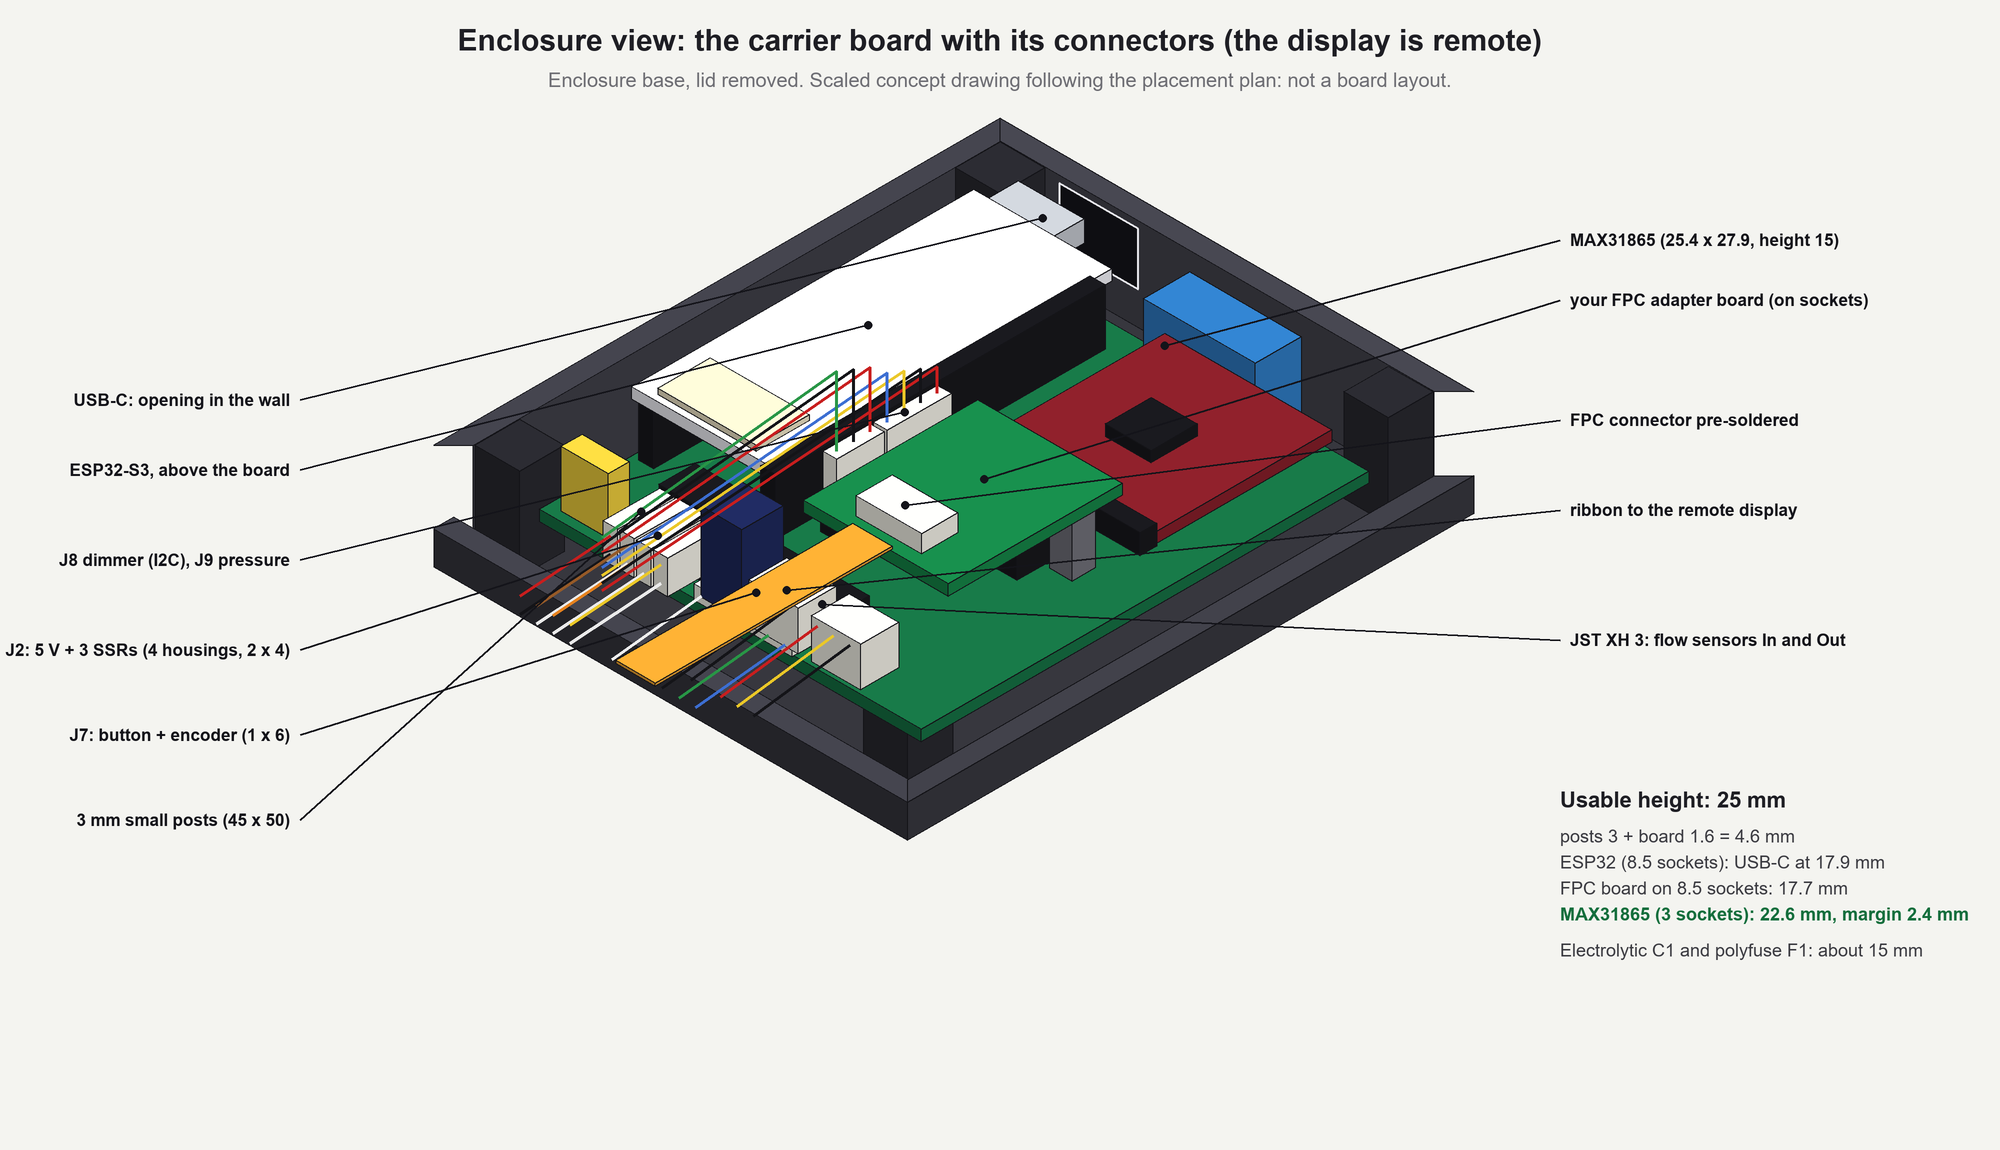
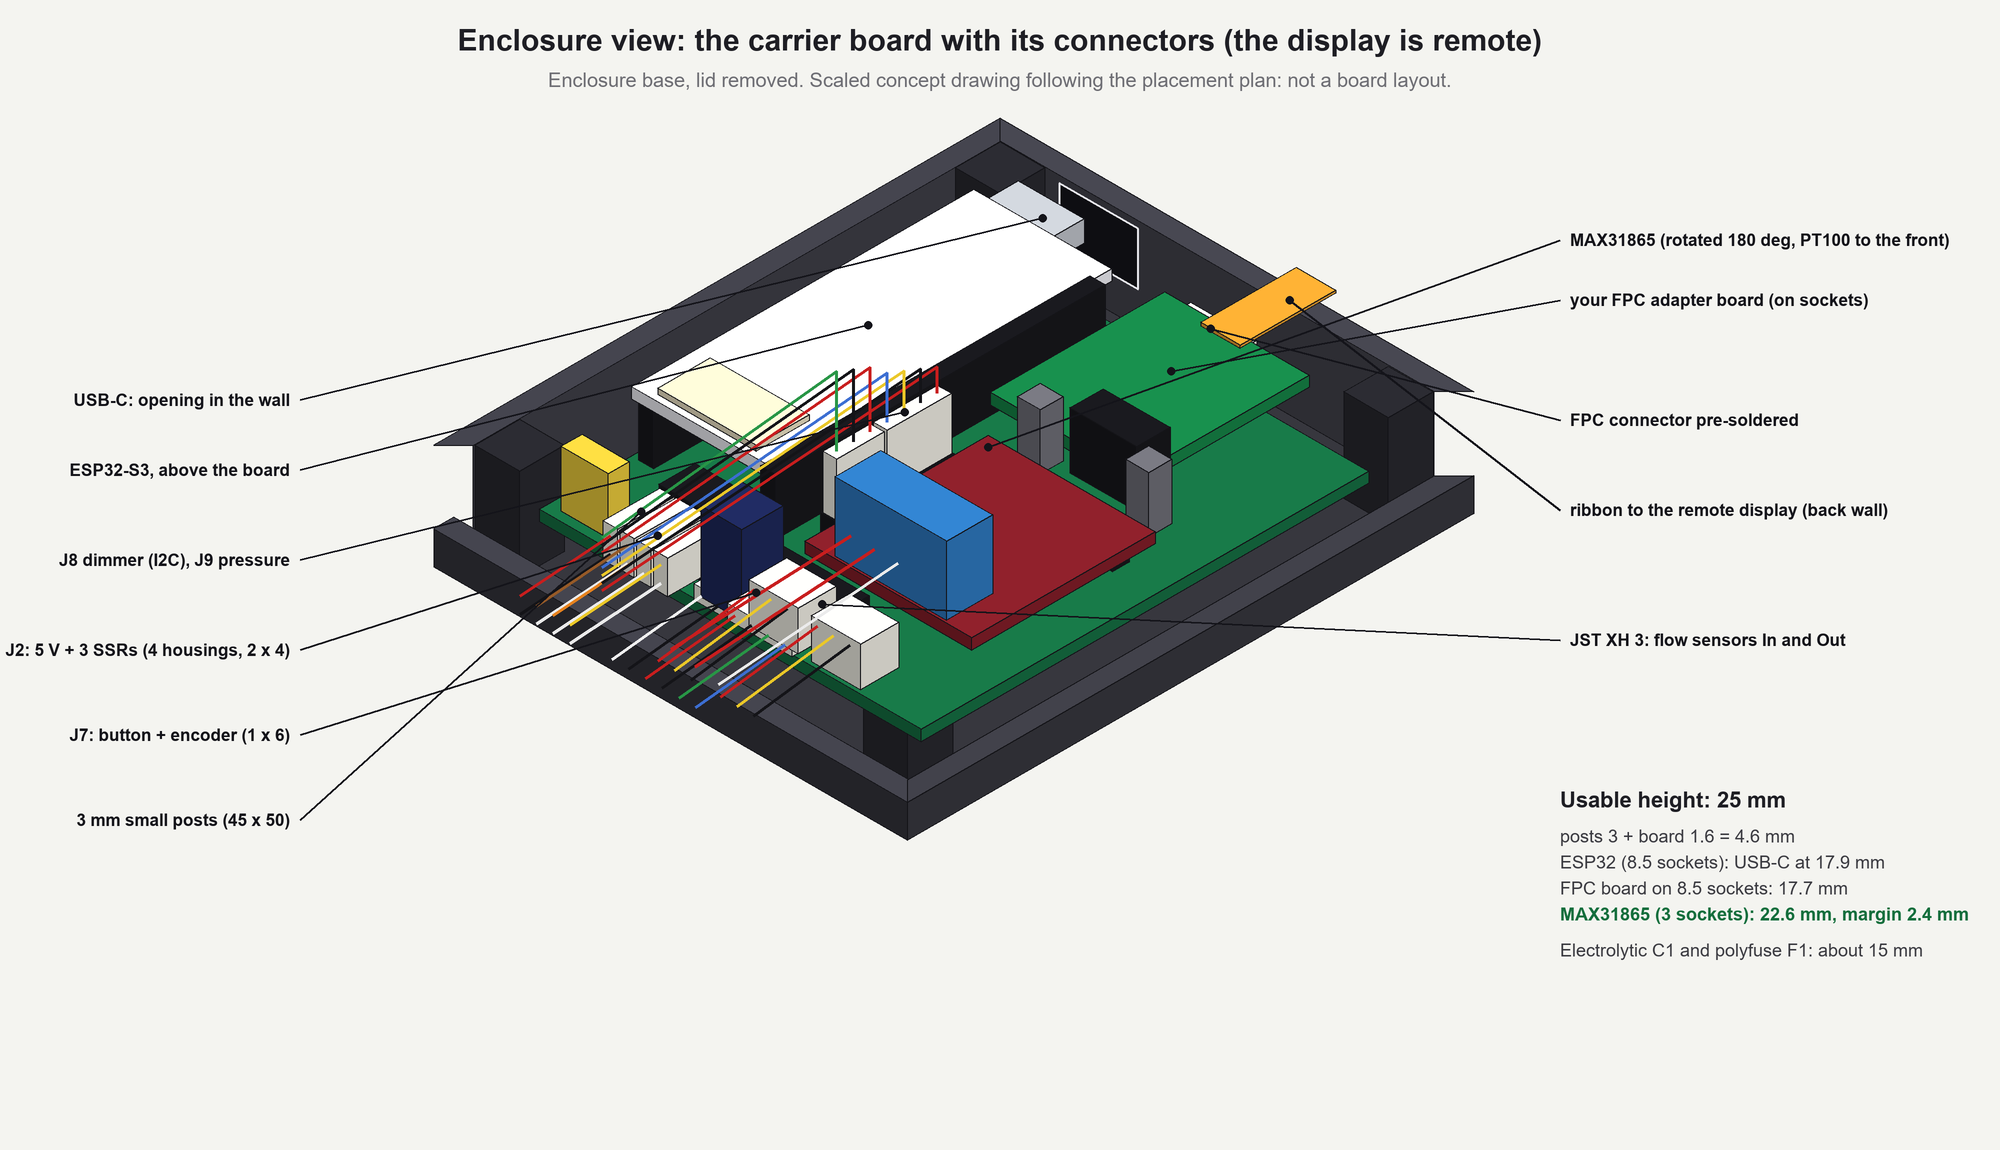
Rotate MAX31865 by 180 degrees and swap it with the FPC board: all cables leave through the front

diff --git a/tools/carrier_plan.py b/tools/carrier_plan.py
@@ -120,32 +120,33 @@ for k in range(0, 14):
     line(d, [(X(3.6), Y(49 + k)), (X(19.4), Y(49 + k - 6))], (170, 30, 30, 160), 1)
 rect(d, X(3.6), Y(49.0), X(19.4), Y(55), outline=(210, 50, 50, 255), width=2)
 
-# ---------------------------------------------------------------- U2: MAX31865 module socket (1x8) along the left edge of the module
+# ---------------------------------------------------------------- U2: MAX31865 module socket (1x8), module rotated 180 degrees:
+# header on the rear edge of the module (pin 1 VIN on the right), PT100 terminal block facing the front
 for i in range(8):
-    tpad(32.8 + i * 2.54, 27.1, square=(i == 0), ring=1.7, drill=1.0)
-rect(d, X(32.8) - 1.27 * K, Y(27.1) - 1.27 * K, X(32.8 + 7 * 2.54) + 1.27 * K, Y(27.1) + 1.27 * K, outline=(20, 20, 24, 255), width=2)
-silk(41.7, 25.0, "U2  MAX31865 (1x8)", 11)
+    tpad(32.8 + i * 2.54, 31.6, square=(i == 7), ring=1.7, drill=1.0)
+rect(d, X(32.8) - 1.27 * K, Y(31.6) - 1.27 * K, X(32.8 + 7 * 2.54) + 1.27 * K, Y(31.6) + 1.27 * K, outline=(20, 20, 24, 255), width=2)
+silk(41.7, 29.9, "U2  MAX31865 (1x8, pin 1 VIN on the right)", 10)
 
-# ---------------------------------------------------------------- J5: socket 2 x 4 for the FPC adapter
+# ---------------------------------------------------------------- J5: socket 2 x 4 for the FPC adapter (board at the top right, connector towards the back wall)
 for r_ in range(2):
     for c_ in range(4):
-        tpad(35.5 + c_ * 2.54, 36.0 + r_ * 2.54, square=(r_ == 0 and c_ == 0), ring=1.7, drill=1.0)
-rect(d, X(35.5) - 1.5 * K, Y(36.0) - 1.5 * K, X(35.5 + 3 * 2.54) + 1.5 * K, Y(38.54) + 1.5 * K, outline=SILK + (255,), width=2)
-silk(40.6, 34.4, "J5  FPC board (2 x 4)", 11)
+        tpad(35.5 + c_ * 2.54, 20.0 + r_ * 2.54, square=(r_ == 1 and c_ == 3), ring=1.7, drill=1.0)
+rect(d, X(35.5) - 1.5 * K, Y(20.0) - 1.5 * K, X(35.5 + 3 * 2.54) + 1.5 * K, Y(22.54) + 1.5 * K, outline=SILK + (255,), width=2)
+silk(41.0, 18.3, "J5  FPC board (2 x 4)", 10)
 # two M2 holes for the standoffs of the FPC adapter (positions to be taken from your board)
-for (cx, cy) in [(31.0, 33.5), (49.0, 33.5)]:
+for (cx, cy) in [(31.0, 25.4), (49.0, 25.4)]:
     hole(cx, cy, 2.2, 4.2)
-silk(40, 31.7, "2 x M2 (position to measure)", 9)
+silk(40, 25.9, "2 x M2 (to measure)", 9)
 
-# flow input conditioning under the adapter: R11..R16 + C3, C4
+# flow input conditioning under the adapter: R11..R16 (two columns of three, pitch 7.62) + C3, C4
 for i, name in enumerate(["R11", "R12", "R13", "R14", "R15", "R16"]):
-    axial(36.5, 42.5 + i * 2.7, pitch=10.16, label=None)
-    text(d, X(42.5), Y(42.5 + i * 2.7), name, 9, SILK, True, 'lm')
-for cx, name in [(48.2, "C3"), (48.2, "C4")]:
-    pass
+    cx_ = 34.3 if i < 3 else 44.9
+    cy_ = 11.6 + (i % 3) * 2.6
+    axial(cx_, cy_, pitch=7.62, label=None)
+    text(d, X(cx_ + 4.6), Y(cy_), name, 8, SILK, True, 'lm') if False else text(d, X(cx_), Y(cy_) - 1.6 * K, name, 8, SILK, True)
 for i, name in enumerate(["C3", "C4"]):
-    tpad(47.5, 43.0 + i * 3.0, ring=1.6, drill=0.8); tpad(49.5, 43.0 + i * 3.0, ring=1.6, drill=0.8)
-    text(d, X(51.0), Y(43.0 + i * 3.0), name, 9, SILK, True, 'lm')
+    tpad(52.4, 15.0 + i * 3.0, ring=1.6, drill=0.8); tpad(54.4, 15.0 + i * 3.0, ring=1.6, drill=0.8)
+    text(d, X(56.0), Y(15.0 + i * 3.0), name, 8, SILK, True, 'lm')
 
 # ---------------------------------------------------------------- front strip: J2 (2x4), J7 (1x6), polyfuse, diode, electrolytic, XH x2
 # J2: 2 x 4 right-angle header, SSR + power
@@ -200,17 +201,17 @@ rect(o, px(X(7.5)) / SS, px(Y(1.7)) / SS, px(X(15.5)) / SS, px(Y(7.0)) / SS, fil
 text(o, X(11.5), Y(10.2), "ESP32-S3   21 x 52  (at 8.5 mm)", 11, (60, 60, 70), True)
 text(o, X(11.5), Y(51.8), "antenna zone: nothing underneath", 10, (150, 30, 30), True)
 text(o, X(11.5), Y(4.5), "USB-C", 10, (60, 60, 70), True)
-# MAX31865 module 25 x 28 at x 29..54, y 2..30
-rrect(o, px(X(29.0)) / SS, px(Y(2.0)) / SS, px(X(54.4)) / SS, px(Y(29.9)) / SS, 6, fill=(20, 80, 170, 150), outline=(150, 190, 250, 255), width=3)
-rect(o, px(X(33.3)) / SS, px(Y(2.4)) / SS, px(X(50.5)) / SS, px(Y(9.5)) / SS, fill=(46, 104, 180, 220), outline=(180, 210, 250, 255), width=2)
-text(o, X(41.7), Y(14.5), "MAX31865", 15, (235, 240, 255), True)
-text(o, X(41.7), Y(17.0), "25.4 x 27.9, height 15", 11, (220, 232, 255))
-text(o, X(41.9), Y(6.0), "PT100 terminal", 10, (235, 240, 255), True)
-# FPC adapter board ~22 x 28 at x 29..51, y 32..60
-rrect(o, px(X(29.0)) / SS, px(Y(30.4)) / SS, px(X(51.0)) / SS, px(Y(56.9)) / SS, 6, fill=(22, 150, 80, 130), outline=(150, 240, 190, 255), width=3)
-rect(o, px(X(35.0)) / SS, px(Y(49.0)) / SS, px(X(45.0)) / SS, px(Y(54.5)) / SS, fill=(236, 236, 228, 230), outline=(120, 120, 110, 255), width=2)
-text(o, X(40.0), Y(51.8), "FPC connector", 10, (50, 50, 44), True)
-text(o, X(40.0), Y(47.0), "FPC board ~22 x 26 (at 8.5 mm)", 10, (230, 255, 240), True)
+# MAX31865 module 25.4 x 27.9 at x 29..54.4, y 28.8..56.7, rotated 180 degrees (terminal block at the front)
+rrect(o, px(X(29.0)) / SS, px(Y(28.8)) / SS, px(X(54.4)) / SS, px(Y(56.7)) / SS, 6, fill=(20, 80, 170, 150), outline=(150, 190, 250, 255), width=3)
+rect(o, px(X(33.3)) / SS, px(Y(49.2)) / SS, px(X(50.5)) / SS, px(Y(56.3)) / SS, fill=(46, 104, 180, 220), outline=(180, 210, 250, 255), width=2)
+text(o, X(41.7), Y(40.0), "MAX31865", 15, (235, 240, 255), True)
+text(o, X(41.7), Y(42.6), "25.4 x 27.9, height 15", 11, (220, 232, 255))
+text(o, X(41.9), Y(52.7), "PT100 terminal (wires exit to the front)", 10, (235, 240, 255), True)
+# FPC adapter board ~22 x 26.5 at x 29..51, y 2..28.5 (connector towards the back wall)
+rrect(o, px(X(29.0)) / SS, px(Y(2.0)) / SS, px(X(51.0)) / SS, px(Y(28.5)) / SS, 6, fill=(22, 150, 80, 130), outline=(150, 240, 190, 255), width=3)
+rect(o, px(X(35.0)) / SS, px(Y(2.4)) / SS, px(X(45.0)) / SS, px(Y(7.9)) / SS, fill=(236, 236, 228, 230), outline=(120, 120, 110, 255), width=2)
+text(o, X(40.0), Y(5.2), "FPC connector (ribbon to the back)", 9, (50, 50, 44), True)
+text(o, X(40.0), Y(8.6), "FPC board ~22 x 26 (at 8.5 mm)", 10, (230, 255, 240), True)
 base = Image.alpha_composite(base, ov)
 d = ImageDraw.Draw(base)
 
@@ -276,9 +277,9 @@ for i, t in enumerate(hs):
 
 text(d, lx, 1060, "Points to check on your board:", 18, (190, 40, 40), True, 'lm')
 chk = [
-    "one mounting hole (top right) passes under the MAX31865: flat-head screw,",
-    "1.5 mm high at most, under the module's 3 mm;",
-    "positions of the 2 M2 holes of the FPC board; pin order of J5, J6 and J7.",
+    "the FPC ribbon leaves through the back wall (slot to cut), next to the USB-C opening;",
+    "PT100 wires leave at the front above J7 / J3 / J4, at about 14 mm;",
+    "M2 holes and pin-1 orientation of the FPC board; pin order of J5, J6 and J7.",
 ]
 for i, t in enumerate(chk):
     text(d, lx, 1092 + i * 26, t, 15, INK, False, 'lm')

diff --git a/tools/box_iso3.py b/tools/box_iso3.py
@@ -95,20 +95,20 @@ add(ex, ey, top + 8.5, 21, 52, 1.6, (236, 236, 242))
 add(ex + 5.5, ey - 1.3, top + 8.5 + 1.6, 10, 7.5, 3.2, (190, 194, 200))     # USB-C
 add(ex + 6, ey + 14, top + 8.5 + 1.6, 9, 9, 1.0, BLACK)                     # the module (shield)
 add(ex + 3, ey + 43, top + 8.5 + 1.6, 15, 8, 0.8, (236, 226, 196))          # antenna
-# MAX31865 (25.4 x 27.9, 15 high) on low sockets of 3 mm; header on the short edge at the front
-mx, my = CX0 + 29, CY0 + 2
-add(mx + 3.8, my + 24.0, top, 19.0, 2.5, 3.0, BLACK)
+# MAX31865 (25.4 x 27.9, 15 high) on low sockets of 3 mm, rotated 180 degrees: header at the rear, PT100 terminal at the front
+mx, my = CX0 + 29, CY0 + 28.8
+add(mx + 3.8, my + 1.4, top, 19.0, 2.5, 3.0, BLACK)
 add(mx, my, top + 3.0, 25.4, 27.9, 1.6, (130, 30, 40))                      # Adafruit board is red-purple
-add(mx + 4.2, my + 0.4, top + 3.0 + 1.6, 17.0, 7.0, 10.4, (46, 120, 190))   # PT100 terminal block (blue)
-add(mx + 9, my + 11, top + 3.0 + 1.6, 7, 7, 1.6, BLACK)                     # the MAX31865 chip
-# the FPC adapter board (~22 x 26.5) on a 2 x 4 header, with its FPC connector
-ax0, ay0 = CX0 + 29, CY0 + 30.4
+add(mx + 4.2, my + 20.5, top + 3.0 + 1.6, 17.0, 7.0, 10.4, (46, 120, 190))  # PT100 terminal block (blue)
+add(mx + 9.4, my + 9.9, top + 3.0 + 1.6, 7, 7, 1.6, BLACK)                  # the MAX31865 chip
+# the FPC adapter board (~22 x 26.5) on a 2 x 4 header, at the top right, FPC connector towards the back wall
+ax0, ay0 = CX0 + 29, CY0 + 2
 HDR = 8.5
-add(ax0 + 6.5, ay0 + 5.6, top, 10.2, 5.1, HDR, BLACK)                       # 2 x 4 header + socket
+add(ax0 + 6.5, ay0 + 15.8, top, 10.2, 5.1, HDR, BLACK)                      # 2 x 4 header + socket
 add(ax0, ay0, top + HDR, 22, 26.5, 1.6, (22, 130, 70))
-add(ax0 + 6, ay0 + 19, top + HDR + 1.6, 10, 5.5, 2.6, WHITE)                # its FPC connector
-add(ax0 + 1.0, ay0 + 3.1, top, 3.5, 3.5, HDR, (110, 110, 118))              # standoffs under the mounting holes
-add(ax0 + 17.5, ay0 + 3.1, top, 3.5, 3.5, HDR, (110, 110, 118))
+add(ax0 + 6, ay0 + 2.0, top + HDR + 1.6, 10, 5.5, 2.6, WHITE)               # its FPC connector
+add(ax0 + 1.0, ay0 + 19.9, top, 3.5, 3.5, HDR, (110, 110, 118))             # standoffs under the mounting holes
+add(ax0 + 17.5, ay0 + 19.9, top, 3.5, 3.5, HDR, (110, 110, 118))
 
 # J8 (dimmer, 1 x 4) and J9 (pressure, 1 x 3): straight headers in the corridor, plugs seated on top
 J8X, J8Y = CX0 + 25.5 - 1.27, CY0 + 33.0 - 1.27
@@ -168,8 +168,12 @@ for kx in range(2):
     for k, col in enumerate([(200, 30, 30), (235, 200, 40), (20, 20, 24)]):
         xk = CX0 + 32 + kx * 9.5 + k * 2.5
         d.line([P(xk, CY0 + 67.3, top + 5), P(xk, CY0 + 82, top + 3)], fill=col, width=3 * SS)
-# FPC ribbon from the adapter connector to the remote display
-cuboid(ax0 + 8, ay0 + 27, top + HDR + 1.6 + 0.8, 6, 36, 0.4, (232, 160, 48))
+# PT100 wires leave the terminal block towards the front, above J7 / XH
+for k, col in enumerate([(200, 30, 30), (200, 30, 30), (235, 235, 235)]):
+    xk = mx + 7.0 + k * 3.6
+    d.line([P(xk, my + 27.9, top + 8.8), P(xk, CY0 + 84, top + 7.5 - k * 0.5)], fill=col, width=3 * SS)
+# FPC ribbon from the adapter connector towards the back wall (slot to cut)
+cuboid(ax0 + 8, ay0 - 12, top + HDR + 1.6 + 0.8, 6, 14.5, 0.4, (232, 160, 48))
 
 # ---------------------------------------------------------------- the labels
 def pl(x, y, z, tx, ty, t, color=(20, 20, 26)):
@@ -180,10 +184,10 @@ def pl(x, y, z, tx, ty, t, color=(20, 20, 26)):
 
 pl(ex + 10, ey + 26, top + 10.2, 300, 470, "ESP32-S3, above the board")
 pl(ex + 10, ey - 0.5, top + 11, 300, 400, "USB-C: opening in the wall")
-pl(mx + 12, my + 12, top + 15, 1560, 240, "MAX31865 (25.4 x 27.9, height 15)")
+pl(mx + 12, my + 12, top + 15, 1560, 240, "MAX31865 (rotated 180 deg, PT100 to the front)")
 pl(ax0 + 11, ay0 + 10, top + HDR + 1.6, 1560, 300, "your FPC adapter board (on sockets)")
-pl(ax0 + 11, ay0 + 22, top + HDR + 4.2, 1560, 420, "FPC connector pre-soldered")
-pl(ax0 + 11, ay0 + 40, top + HDR + 2, 1560, 510, "ribbon to the remote display")
+pl(ax0 + 11, ay0 + 4, top + HDR + 4.2, 1560, 420, "FPC connector pre-soldered")
+pl(ax0 + 11, ay0 - 8, top + HDR + 2, 1560, 510, "ribbon to the remote display (back wall)")
 pl(CX0 + 25.5, CY0 + 38, top + 10.5, 300, 560, "J8 dimmer (I2C), J9 pressure")
 pl(CX0 + 16, CY0 + 66, top + 3.5, 300, 650, "J2: 5 V + 3 SSRs (4 housings, 2 x 4)")
 pl(CX0 + 31, CY0 + 66, top + 3.5, 300, 735, "J7: button + encoder (1 x 6)")

diff --git a/docs/carrier_spec.md b/docs/carrier_spec.md
@@ -6,6 +6,9 @@ All **through-hole** parts (no SMD soldering). Related files: `images/carrier_pl
 - Board: **58 x 68 mm**, two layers, ground plane. Free area in the enclosure: 60 x 70 mm between the large posts.
 - 4 mounting holes on the **3 mm** small posts, **45 x 50 mm** spacing.
 - Usable depth **25 mm**: posts 3 + board 1.6 = 4.6 mm; ESP32 on 8.5 mm sockets (USB-C at 17.9 mm); FPC adapter board on 8.5 mm sockets (17.7 mm); MAX31865 on low 3 mm sockets (22.6 mm, 2.4 mm margin).
+- **Cable sides:** all cables leave through the **front** (J2, J7, J3, J4, and the PT100 wires). The USB-C and the display ribbon are at the **back**.
+- **MAX31865 rotated 180 degrees and swapped with the FPC board:** the MAX31865 is at the bottom right (header on its rear edge, pin 1 VIN on the right; PT100 terminal block facing the front, wires at about 14 mm above J7 / J3 / J4). The FPC adapter board is at the top right, its FPC connector towards the back wall, with the flow-input resistors R11 to R16 and C3, C4 under it. Only the MAX terminal block needs the front: if it stayed at the top (even rotated), its wires would have to cross the FPC board, which is at 13.1 to 17.7 mm.
+- The display ribbon (flat, at about 15.5 mm) goes out through the **back wall**: a slot has to be cut in the wall (or the lid), next to the USB-C opening. If the display must also be reached from the front, the ribbon has to be routed around the enclosure.
 - No copper and no component under the ESP32 antenna (the end of the ESP32 board opposite the USB-C).
 
 ## Connectors
@@ -113,4 +116,4 @@ VIN (3.3 V), 3Vo (unused), GND, CLK (GPIO 12), SDO (GPIO 13), SDI (GPIO 11), CS 
 6. MAX31865 module (Adafruit, measured from the manufacturer's drawing): 25.4 x 27.9 mm, mounting holes 0.9" apart and 0.1" from the terminal-block edge, 1 x 8 header at 0.1" pitch on the short edge.
 7. Pump dimmer: one-time switch from UART to I2C (see J8); behaviour with the vibration pump to test; I2C pull-ups (4.7 kΩ) fitted on the board.
 8. Pressure sensor: confirm 3 wires (+5 V, GND, signal) and the G1/4 fitting on the hydraulic circuit.
-9. One mounting hole (top right) passes under the MAX31865: flat-head screw, 1.5 mm high at most, under the module's 3 mm.
+9. Slot for the display ribbon in the back wall or lid; orientation of pin 1 on your FPC adapter board (the board is mounted rotated 180 degrees compared to the previous layout).
